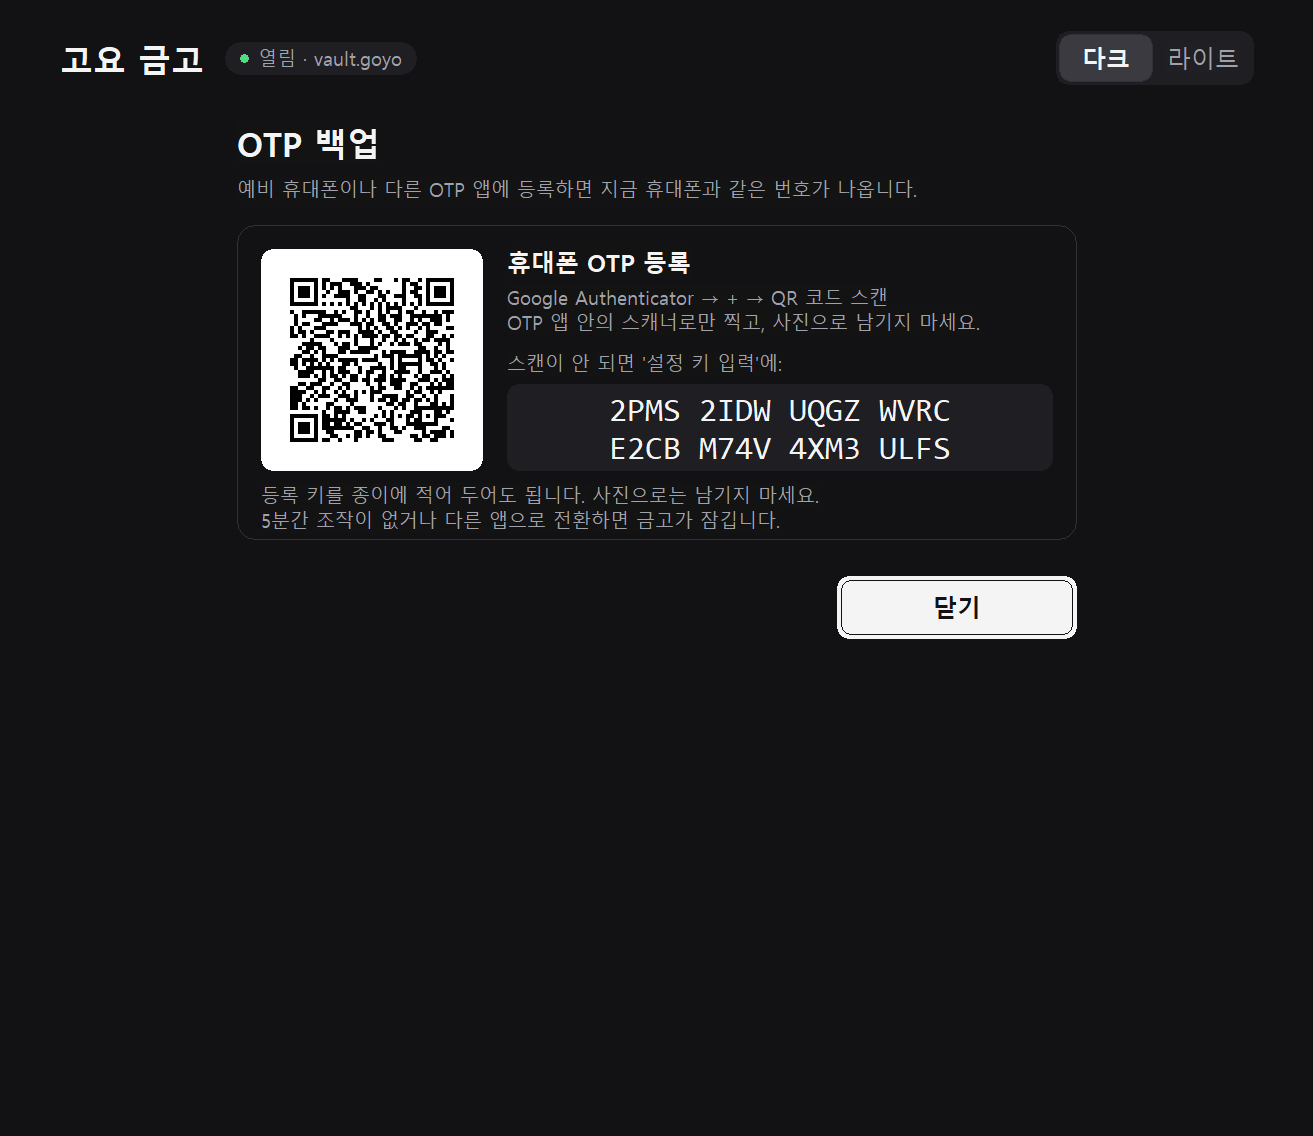
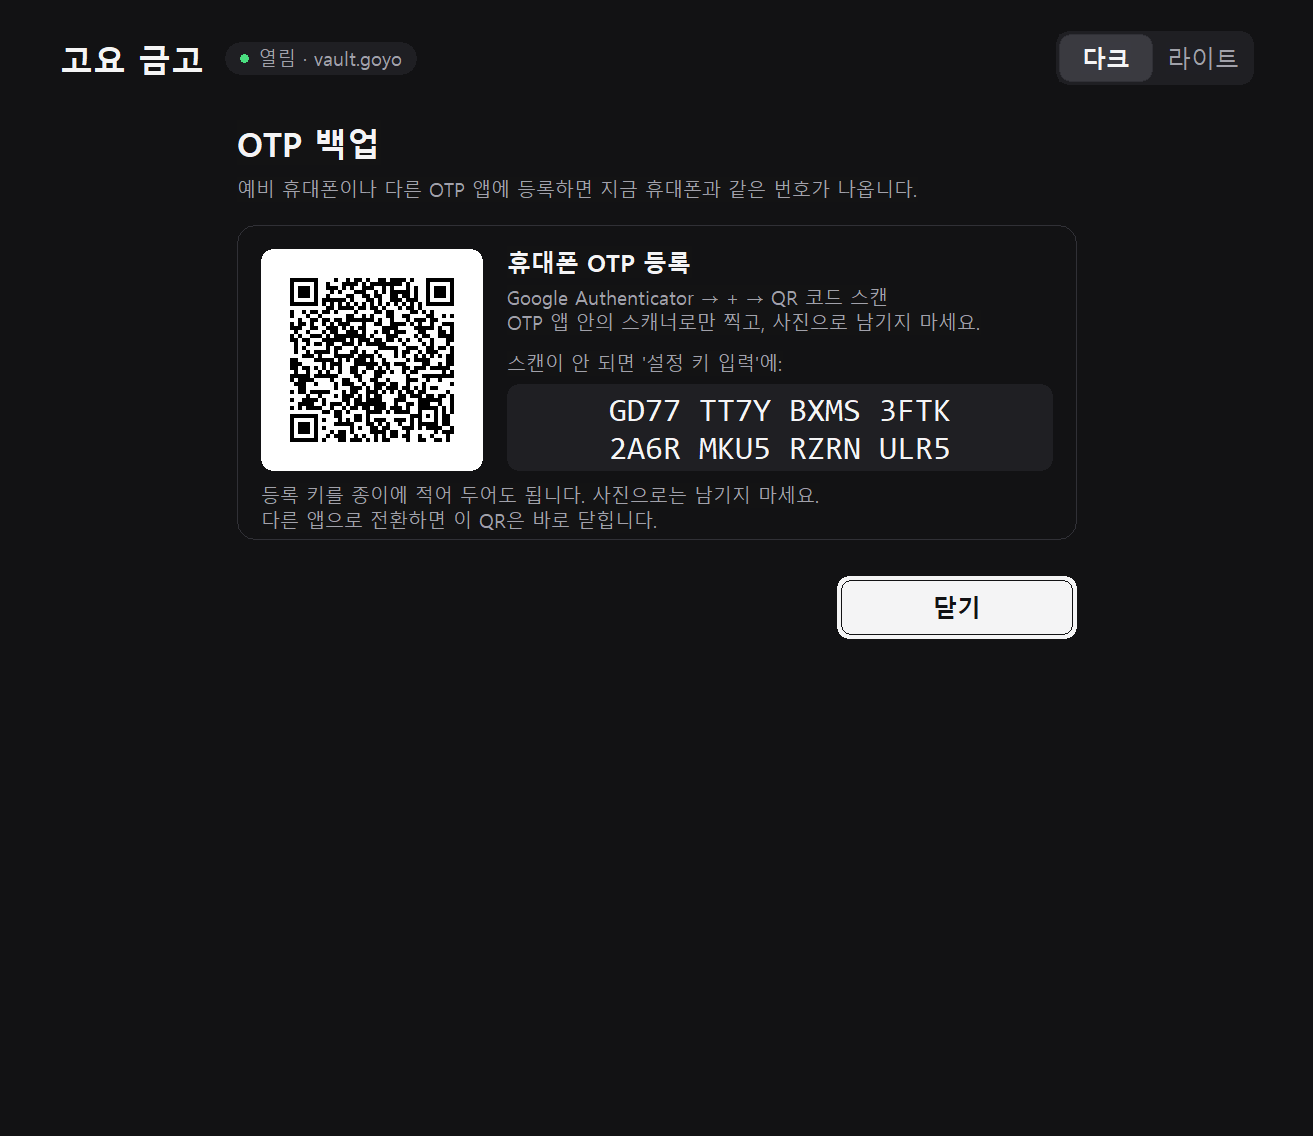
Lock after 30 s in another app instead of on every switch (0.3.1)
Any focus change locked an open vault, so a screenshot tool's overlay or
a quick trip to paste a copied value meant unlocking again with the
password and a new OTP. Most of what that guarded is already covered:
capture exclusion keeps the window out of screenshots and the 60-second
idle lock covers walking away.

Switching apps now hides what was shown at once (15-second view, copy
permission, passwords made visible, the OTP backup QR) and locks only
after 30 seconds away. The timer also checks the foreground window so a
missed activation message cannot lock a vault in use. Idle, session
lock and sleep locks are unchanged; the regression test covers hiding,
returning in time and staying away too long.

Changed region(s): [[0.2186, 0.2465, 0.3435, 0.4005], [0.4684, 0.3389, 0.7182, 0.4005], [0.1874, 0.4313, 0.5933, 0.4621]]

diff --git a/src/main.rs b/src/main.rs
@@ -72,6 +72,10 @@ const BACK: i32 = 126;
 const PEEK_PASS: i32 = 127;
 const PEEK_CONFIRM: i32 = 128;
 const PEEK_CURRENT: i32 = 129;
+/// An open vault locks once another app has had focus this long. Shorter
+/// trips (pasting a copied value, a screenshot tool's overlay) only hide
+/// what was shown; capture exclusion already keeps the window out of shots.
+const AWAY_LOCK: Duration = Duration::from_secs(30);
 const OTP_SETUP: i32 = 135;
 const PEEK_FIELDS: [(i32, i32); 3] = [
     (PEEK_PASS, PASS),
@@ -146,6 +150,8 @@ struct App {
     from_welcome: bool,
     /// OTP secret shown on OtpBackup after the password check.
     otp_setup: Option<OtpSetup>,
+    /// When another app took focus while a vault was open.
+    away_since: Option<Instant>,
 }
 impl App {
     fn new(hwnd: Hwnd) -> Self {
@@ -187,6 +193,7 @@ impl App {
             input_failed: false,
             from_welcome: false,
             otp_setup: None,
+            away_since: None,
         }
     }
     fn px(&self, n: i32) -> i32 {
@@ -896,7 +903,7 @@ impl App {
         self.button(OTP_SETUP, "OTP 백업", 388, 642, 100, 34, theme::SECONDARY);
         self.text(
             0,
-            "60초 미사용·앱 전환·화면 잠금 시 자동 잠금\r\n화면 캡처 차단 · 악성코드까지 막지는 못합니다.",
+            "60초 미사용·다른 앱 30초·화면 잠금 시 잠금\r\n화면 캡처 차단 · 악성코드까지 막지는 못합니다.",
             (504, 640, 332, 38),
             small,
             TONE_MUTED,
@@ -953,7 +960,7 @@ impl App {
         self.label("메모", 40, 440, 400);
         self.input(NOTES, &values[3], (40, 462, 796, 100), false, true, 0);
         self.note(
-            "비밀정보·메모 칸은 한글 IME를 차단합니다. 입력기 학습 위험이 있어 붙여넣기를 권장합니다.\r\n복사·잘라내기는 차단됩니다. 붙여넣을 값은 이 화면을 열기 전에 복사해 두세요.\r\n편집 중 내용이 화면에 보이며, 다른 앱으로 전환하면 저장하지 않은 내용은 삭제됩니다.",
+            "비밀정보·메모 칸은 한글 IME를 차단합니다. 입력기 학습 위험이 있어 붙여넣기를 권장합니다.\r\n이 화면에서 복사·잘라내기는 막혀 있고 붙여넣기만 됩니다.\r\n편집 중 내용이 화면에 보입니다. 다른 앱에 30초 넘게 머무르면 잠기고 저장하지 않은 내용은 지워집니다.",
             40,
             574,
             796,
@@ -1022,7 +1029,7 @@ impl App {
                 22,
             );
             self.enrollment_labels(
-                "등록 키를 종이에 적어 두어도 됩니다. 사진으로는 남기지 마세요.\r\n5분간 조작이 없거나 다른 앱으로 전환하면 금고가 잠깁니다.",
+                "등록 키를 종이에 적어 두어도 됩니다. 사진으로는 남기지 마세요.\r\n다른 앱으로 전환하면 이 QR은 바로 닫힙니다.",
             );
             self.button(CANCEL, "닫기", AX + AW - 160, 384, 160, 42, theme::PRIMARY);
             unsafe {
@@ -1115,12 +1122,31 @@ impl App {
     /// is being enrolled, a restore) stays for the user to come back to; shown
     /// passwords are masked, and the idle timeout and Windows session lock
     /// still clear everything.
+    /// Nothing revealed stays on screen while the user is elsewhere: shown
+    /// passwords are masked, the 15-second view and copy permission end and
+    /// the OTP QR closes. An open vault locks if the user stays away for
+    /// AWAY_LOCK (see timer).
     fn deactivated(&mut self) {
-        if self.session.is_some() {
-            self.lock("다른 앱으로 전환되어 잠갔습니다.", false);
-        } else {
-            self.mask_passwords();
+        self.mask_passwords();
+        if self.session.is_none() {
+            return;
         }
+        self.away_since.get_or_insert_with(Instant::now);
+        self.reset_copy();
+        if self.reveal_until.take().is_some() {
+            self.sync_detail();
+            unsafe {
+                InvalidateRect(self.hwnd, null(), 0);
+            }
+        }
+        if self.otp_setup.take().is_some() {
+            self.screen = Screen::Vault;
+            self.status = "다른 앱으로 전환되어 OTP 화면을 닫았습니다.".into();
+            self.build();
+        }
+    }
+    fn activated(&mut self) {
+        self.away_since = None;
     }
     fn lock(&mut self, why: &str, clear_clipboard: bool) {
         self.auth_dirty = false;
@@ -1130,6 +1156,7 @@ impl App {
         self.session = None;
         self.provision = None;
         self.otp_setup = None;
+        self.away_since = None;
         self.selected = None;
         self.editing = None;
         self.copy_until = None;
@@ -1621,6 +1648,14 @@ impl App {
         if self.session.is_some() || self.provision.is_some() || self.auth_dirty {
             if let Err(e) = check_environment(self.hwnd) {
                 self.lock(e, true);
+                return;
+            }
+            // A missed activation message must not lock a vault in use.
+            if unsafe { GetForegroundWindow() } == self.hwnd {
+                self.away_since = None;
+            }
+            if self.session.is_some() && self.away_since.is_some_and(|t| now - t >= AWAY_LOCK) {
+                self.lock("다른 앱에 30초 넘게 머물러 잠갔습니다.", false);
                 return;
             }
             // Scanning a QR or copying the key onto paper takes longer.
@@ -2411,6 +2446,10 @@ unsafe extern "system" fn window_proc(h: Hwnd, m: u32, w: usize, l: isize) -> is
                 }
                 true
             }
+            0x1c => {
+                app.activated();
+                true
+            }
             0x2b1 if matches!(w, 2 | 3 | 4 | 6 | 7 | 9) => {
                 app.lock("Windows 세션이 잠기거나 연결이 변경되어 잠갔습니다.", true);
                 true
@@ -2815,8 +2854,22 @@ mod tests {
             );
             app.command(SUBMIT, 0).unwrap();
             assert!(app.otp_setup.is_some());
+            app.reveal_until = Some(Instant::now() + Duration::from_secs(15));
+            app.copy_until = Some(Instant::now() + Duration::from_secs(30));
             app.deactivated();
-            assert!(app.session.is_none() && app.otp_setup.is_none());
+            assert!(app.session.is_some() && app.screen == Screen::Vault);
+            assert!(app.otp_setup.is_none() && app.reveal_until.is_none());
+            assert!(app.copy_until.is_none());
+            // Back within AWAY_LOCK: still open.
+            app.away_since = Some(Instant::now() - Duration::from_secs(20));
+            app.activated();
+            app.timer();
+            assert!(app.session.is_some());
+            // Away longer than AWAY_LOCK: locked.
+            app.deactivated();
+            app.away_since = Some(Instant::now() - AWAY_LOCK - Duration::from_secs(1));
+            app.timer();
+            assert!(app.session.is_none() && app.away_since.is_none());
             assert!(app.screen == Screen::Login);
             drop(app);
             DestroyWindow(h);

diff --git a/src/win.rs b/src/win.rs
@@ -157,6 +157,7 @@ unsafe extern "system" {
     pub fn InvalidateRect(h: Hwnd, r: *const Rect, erase: i32) -> i32;
     pub fn RedrawWindow(h: Hwnd, r: *const Rect, region: isize, flags: u32) -> i32;
     pub fn MessageBeep(kind: u32) -> i32;
+    pub fn GetForegroundWindow() -> Hwnd;
     pub fn LoadImageW(
         inst: isize,
         name: *const u16,

diff --git a/README.md b/README.md
@@ -13,7 +13,7 @@
 - **완전 오프라인:** 네트워크 코드가 없습니다. 서버·계정·동기화·자동 업데이트도 없습니다.
 - **네 가지가 모두 있어야 열립니다:** 금고 파일(`.goyo`), 열쇠 파일(`.goyokey`), 비밀번호, 휴대폰 OTP.
 - **비밀값을 기본으로 가립니다:** 15초 보기, 허용한 뒤에만 복사, 복사한 값은 15초 뒤 클립보드에서 지웁니다.
-- **자동 잠금:** 금고가 열려 있을 때 60초 미사용, 다른 앱으로 전환, 화면 잠금, 절전 때 잠깁니다.
+- **자동 잠금:** 금고가 열려 있을 때 60초 미사용, 다른 앱에 30초 넘게 머무름, 화면 잠금, 절전 때 잠깁니다.
 - **화면 캡처 차단:** 일반 캡처 프로그램과 화면 녹화에 금고 창이 찍히지 않습니다.
 - **설치 없는 단일 실행 파일**, 다크·라이트 테마를 지원합니다.
 
@@ -71,7 +71,7 @@
 - 종류는 직접 쓰거나 **비밀번호 · 니모닉 · 프라이빗키 · API 키** 버튼으로 채웁니다.
 - 여러 줄짜리 키(PEM 등)도 그대로 저장됩니다.
 - **이름은 목록에 항상 보이니** 이름에 비밀값을 넣지 마세요.
-- 보안을 위해 비밀정보·메모 칸에서는 한글 입력기가 꺼집니다. 한글은 미리 복사해 두었다가 붙여넣으세요. 다른 앱으로 전환하면 편집 중인 내용이 지워지므로, **붙여넣을 값은 이 화면을 열기 전에 복사**해 두세요.
+- 보안을 위해 비밀정보·메모 칸에서는 한글 입력기가 꺼집니다. 한글은 미리 복사해 두었다가 붙여넣으세요. 다른 앱에서 값을 복사해 와도 되지만, **30초 안에 돌아와** 붙여넣으세요. 그보다 오래 머무르면 금고가 잠기고 저장하지 않은 내용은 지워집니다.
 
 ### 4. 보기·복사
 
@@ -88,7 +88,9 @@
 
 ![금고 열기](docs/images/login.png)
 
-60초 동안 쓰지 않거나, 다른 앱으로 전환하거나, 화면을 잠그거나, 절전에 들어가면 자동으로 잠깁니다. **잠금** 버튼으로 바로 잠글 수도 있습니다.
+60초 동안 쓰지 않거나, 다른 앱에 30초 넘게 머무르거나, 화면을 잠그거나, 절전에 들어가면 자동으로 잠깁니다. **잠금** 버튼으로 바로 잠글 수도 있습니다.
+
+다른 앱으로 잠깐 갔다 오는 것(복사한 값 붙여넣기, 스크린샷 도구 등)으로는 잠기지 않습니다. 대신 전환하는 순간 **15초 보기**, **복사 허용**, 보이게 해 둔 비밀번호, **OTP 백업** QR은 바로 가려집니다. 금고 창은 원래 화면 캡처에 찍히지 않습니다.
 
 금고를 열기 전 화면(금고 열기, 새 금고 만들기, 백업에서 복원)은 다른 앱으로 전환해도 입력하던 내용과 OTP 등록 QR이 그대로 남고, 보이게 해 둔 비밀번호만 다시 가려집니다. 이 화면들도 미사용 시간(새 금고 5분, 나머지 60초)이 지나거나 Windows 화면을 잠그면 지워집니다.
 
@@ -154,7 +156,7 @@
 - 입력란에 Windows 암호 입력 범위를 설정하고, 비밀정보·메모 칸은 입력기(IME)를 분리합니다. 입력기 종류에 따라 이름·종류·경로 칸도 한글 직접 입력이 제한될 수 있습니다. 그때는 붙여넣기를 쓰세요. OS 입력 서비스, 타사 키보드, 음성 입력의 학습·개인화 저장까지 완전히 통제할 수는 없습니다. 입력 보호 설정이 실패하면 해당 칸과 저장·인증을 막습니다.
 - 비밀번호 칸의 눈 아이콘은 본인이 누를 때만 글자를 보여 줍니다. 보이는 동안에도 복사, 다른 프로그램의 텍스트 읽기, 접근성 읽기, 화면 캡처는 그대로 막히고 입력기도 꺼진 상태입니다. 다른 프로그램이 가림을 푸는 것은 계속 차단합니다. 잠금, 미사용 시간 초과, 화면 전환 때는 다시 가려집니다. 옆 사람이 화면을 보는 것까지 막지는 못하니 주변을 확인하고 쓰세요.
 - 앱에서 복사한 값은 Win+V 기록과 클라우드 동기화에서 제외하고, 이 표시를 따르는 클립보드 관리 프로그램에도 기록하지 말라고 표시합니다. 다른 앱이 클립보드를 점유하면 지우기를 계속 재시도하고, 종료도 지울 때까지 기다립니다. 강제 종료나 시스템 종료 때는 이 정리를 보장하지 못합니다.
-- 다른 앱으로 전환하면 금고는 잠기지만, 방금 복사한 값은 붙여넣기를 위해 남은 15초 동안 유지합니다. 수동 잠금, 화면 잠금, 절전 때는 즉시 지웁니다. 그 사이 다른 앱이 클립보드를 바꿨다면 그 내용은 지우지 않습니다.
+- 다른 앱으로 전환해도 방금 복사한 값은 붙여넣기를 위해 남은 15초 동안 유지합니다. 수동 잠금, 화면 잠금, 절전 때는 즉시 지웁니다. 그 사이 다른 앱이 클립보드를 바꿨다면 그 내용은 지우지 않습니다.
 - Windows 캡처 제외는 Windows가 지원하는 캡처 경로에만 적용됩니다.
 - OTP 등록 QR은 앱 안의 자체 인코더로 화면에 직접 그립니다. 이미지 파일을 만들지 않고 외부 서비스도 쓰지 않으며, 비밀키가 담긴 중간 버퍼도 `zeroize`로 지웁니다.
 

diff --git a/README.en.md b/README.en.md
@@ -16,7 +16,7 @@
 - **Fully offline:** no network code, no server, account, sync or auto-update.
 - **Four things open a vault:** the vault file (`.goyo`), a separate key file (`.goyokey`), your password and a phone OTP.
 - **Secrets stay hidden by default:** show for 15 seconds, copy only after you allow it, and the clipboard is wiped 15 seconds after a copy.
-- **Auto-lock** of an open vault after 60 seconds idle, when you switch to another app, lock the screen or the PC sleeps.
+- **Auto-lock** of an open vault after 60 seconds idle, after 30 seconds in another app, when you lock the screen or the PC sleeps.
 - **Screen-capture protection:** the window is excluded from ordinary screenshots and screen recordings.
 - **A single executable, no installer.** Dark and light themes.
 
@@ -74,7 +74,7 @@ Press **+ New entry (+ 새 항목)**, fill in name, type, secret and note, then 
 - Type the kind yourself or use the **password · seed phrase · private key · API key** buttons (비밀번호 · 니모닉 · 프라이빗키 · API 키).
 - Multi-line keys such as PEM files are kept exactly.
 - **Names are always visible in the list,** so never put a secret in the name.
-- For safety, the input method editor (IME) is off in the secret and note fields; Korean text has to be pasted there. Switching to another app clears unsaved edits, so **copy what you want to paste before you open the editor.**
+- For safety, the input method editor (IME) is off in the secret and note fields; Korean text has to be pasted there. You can copy a value in another app, but **come back within 30 seconds** to paste it; staying away longer locks the vault and clears unsaved edits.
 
 ### 4. View and copy
 
@@ -91,7 +91,9 @@ Pick an entry in the list to see it on the right.
 
 ![Open vault](docs/images/login.png)
 
-The vault locks itself after 60 seconds without use, when you switch to another app, lock the screen or the PC sleeps. **Lock (잠금)** locks it right away.
+The vault locks itself after 60 seconds without use, after 30 seconds in another app, when you lock the screen or the PC sleeps. **Lock (잠금)** locks it right away.
+
+A quick trip to another app (pasting a copied value, a screenshot tool) does not lock it. The moment you switch, though, **Show for 15 s**, **Allow copy**, any password you made visible and the **OTP backup** QR are hidden. The vault window never appears in screen captures anyway.
 
 Screens before a vault is open (open, new vault, restore) keep what you typed and the OTP setup QR when you switch to another app; only a password you made visible is hidden again. They are still cleared after the idle time (5 minutes for a new vault, 60 seconds otherwise) or when you lock Windows.
 
@@ -157,7 +159,7 @@ Choose dark or light in the top-right corner. The choice is stored as just `dark
 - Input fields use the Windows password input scope, and the secret and note fields are detached from the IME. Depending on the input method, Korean may not be typeable in other fields either; paste instead. OS text services, third-party keyboards and voice input cannot be fully prevented from learning what you type. If input protection cannot be set up, that field and saving/unlocking are blocked.
 - The eye icon in a password field shows the text only when you press it. While shown, copying, reads by other programs, accessibility reads and screen capture stay blocked, and the IME stays off. Other programs still cannot unmask the field. Locking, the idle timeout and changing screens hide it again. It cannot stop someone looking over your shoulder.
 - Values copied by the app are excluded from Win+V history and cloud sync and marked so that clipboard managers honouring the convention do not record them. If another program holds the clipboard, clearing is retried, and closing waits until it succeeds. A forced kill or a system shutdown cannot guarantee this cleanup.
-- Switching apps locks the vault but keeps a just-copied value for the rest of its 15 seconds so you can paste it. Manual lock, screen lock and sleep clear it immediately. Content another app put on the clipboard in the meantime is left alone.
+- Switching apps keeps a just-copied value for the rest of its 15 seconds so you can paste it. Manual lock, screen lock and sleep clear it immediately. Content another app put on the clipboard in the meantime is left alone.
 - Capture exclusion only covers capture paths that Windows supports.
 - The enrollment QR is drawn straight to the window by a built-in encoder. No image file is written, no outside service is used, and the intermediate buffers holding the secret are wiped with `zeroize`.
 

diff --git a/docs/SECURITY_REVIEW.md b/docs/SECURITY_REVIEW.md
@@ -99,11 +99,20 @@
 - 남는 위험: 열린 금고 앞에 앉은 사람이 비밀번호까지 알면 자기 기기에 OTP를 등록할 수 있습니다. 그 사람은 이미 열린 금고의 모든 항목을 볼 수 있는 상태이므로 새로 생기는 노출은 크지 않다고 판단했습니다.
 - 회귀 테스트: `Session::otp_setup`이 맞는 비밀번호에서만 생성 때와 같은 키·URI를 돌려주는지, UI에서 틀린 비밀번호는 표시하지 않고 대기 시간을 거는지, 닫기·앱 전환 잠금이 비밀키를 버리는지 확인합니다. 자동 테스트 총 22개 통과(라이브러리 16개, UI 6개).
 
+## 0.3.1 변경: 앱 전환 즉시 잠금 → 30초 유예
+
+이 변경도 외부 모델 검토를 받지 않았습니다.
+
+- 이전에는 다른 앱이 포커스를 가져가는 순간 열린 금고를 잠갔습니다. 스크린샷 도구의 선택 화면이나 복사한 값을 붙여넣으러 잠깐 가는 것만으로도 비밀번호와 새 OTP로 다시 열어야 했습니다. 이 잠금이 막는 위험은 대부분 다른 장치가 이미 맡고 있습니다. 화면 캡처는 캡처 제외가, 자리를 비우는 경우는 60초 미사용 잠금이 막습니다. 같은 사용자 권한의 악성 프로그램은 원래 범위 밖입니다.
+- 지금은 전환 순간 보이던 것을 모두 가립니다(15초 보기 종료, 복사 허용 해제, 보이게 한 비밀번호 재가림, OTP 백업 QR 닫기). 다른 앱에 30초 넘게 머무르면 잠급니다. 활성화 메시지를 놓쳐도 타이머가 전경 창이 금고인지 확인하므로, 사용 중인 금고를 잘못 잠그지 않습니다. 60초 미사용, 세션 잠금·절전 잠금은 그대로입니다.
+- 남는 위험: 다른 앱을 보는 동안 최대 30초까지 금고 목록과 편집 중인 내용이 화면에 남습니다. 비밀정보 자체는 기본적으로 가려져 있고, 편집 화면만 내용이 보입니다.
+- 회귀 테스트: 전환 시 QR·보기·복사 허용이 꺼지고 금고는 열려 있는지, 30초 안에 돌아오면 유지되는지, 30초를 넘기면 잠기는지 확인합니다.
+
 ## 남은 검증 한계와 의도한 동작
 
 실제 비밀·사용자 클립보드를 사용하는 UI 자동화는 수행하지 않았습니다. 숨겨진 자체 테스트 창과 가짜 값으로 검증했습니다. 사용자 클립보드를 실제로 덮어쓰는 통합 테스트, 모든 캡처 프로그램·IME·셸 확장, FAT/exFAT 전원 차단, 장치별 물리 난수 검증은 수행하지 않았습니다. 실제 한국어 IME를 통한 제목/경로 입력은 수동 확인하지 않았으며, 암호 입력 범위 때문에 한글 입력이 제한될 수 있음을 README에 명시했습니다.
 
-클립보드 점유가 풀리지 않으면 종료가 대기할 수 있습니다. 이는 비밀이 남은 채 자동 종료하지 않기 위한 선택입니다. 다른 앱 전환 시 편집 중인 미저장 내용은 지웁니다. 파일창도 60초 잠금 대상입니다. 운영체제 메모리 사본·관리자/커널 공격·경로 메타데이터·암호화 임시 파일·오래된 백업/열쇠의 효력은 README에 설명한 한계가 유지됩니다.
+클립보드 점유가 풀리지 않으면 종료가 대기할 수 있습니다. 이는 비밀이 남은 채 자동 종료하지 않기 위한 선택입니다. 다른 앱에 30초 넘게 머무르면 잠그며, 편집 중인 미저장 내용도 이때 지웁니다. 파일창도 60초 잠금 대상입니다. 운영체제 메모리 사본·관리자/커널 공격·경로 메타데이터·암호화 임시 파일·오래된 백업/열쇠의 효력은 README에 설명한 한계가 유지됩니다.
 
 Windows 설정 검증 근거: [정적 DLL 검색 플래그](https://learn.microsoft.com/en-us/cpp/build/reference/dependentloadflag?view=msvc-170), [파일 선택창 플래그](https://learn.microsoft.com/en-us/windows/win32/api/commdlg/ns-commdlg-openfilenamew), [클립보드 시퀀스](https://learn.microsoft.com/en-us/windows/win32/api/winuser/nf-winuser-getclipboardsequencenumber), [입력 컨트롤 스타일](https://learn.microsoft.com/en-us/windows/win32/controls/edit-control-styles).
 
